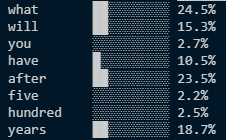
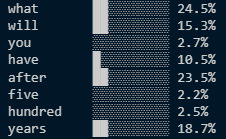
final v1

diff --git a/README.md b/README.md
@@ -14,3 +14,5 @@ Built to understand how transformer attention actually works, from the inside.
   word's attention went
 
 ## Example
+![Attention visualizer example 1 ](omniman.png)
+![Attention visualizer example 2](twd.png)
